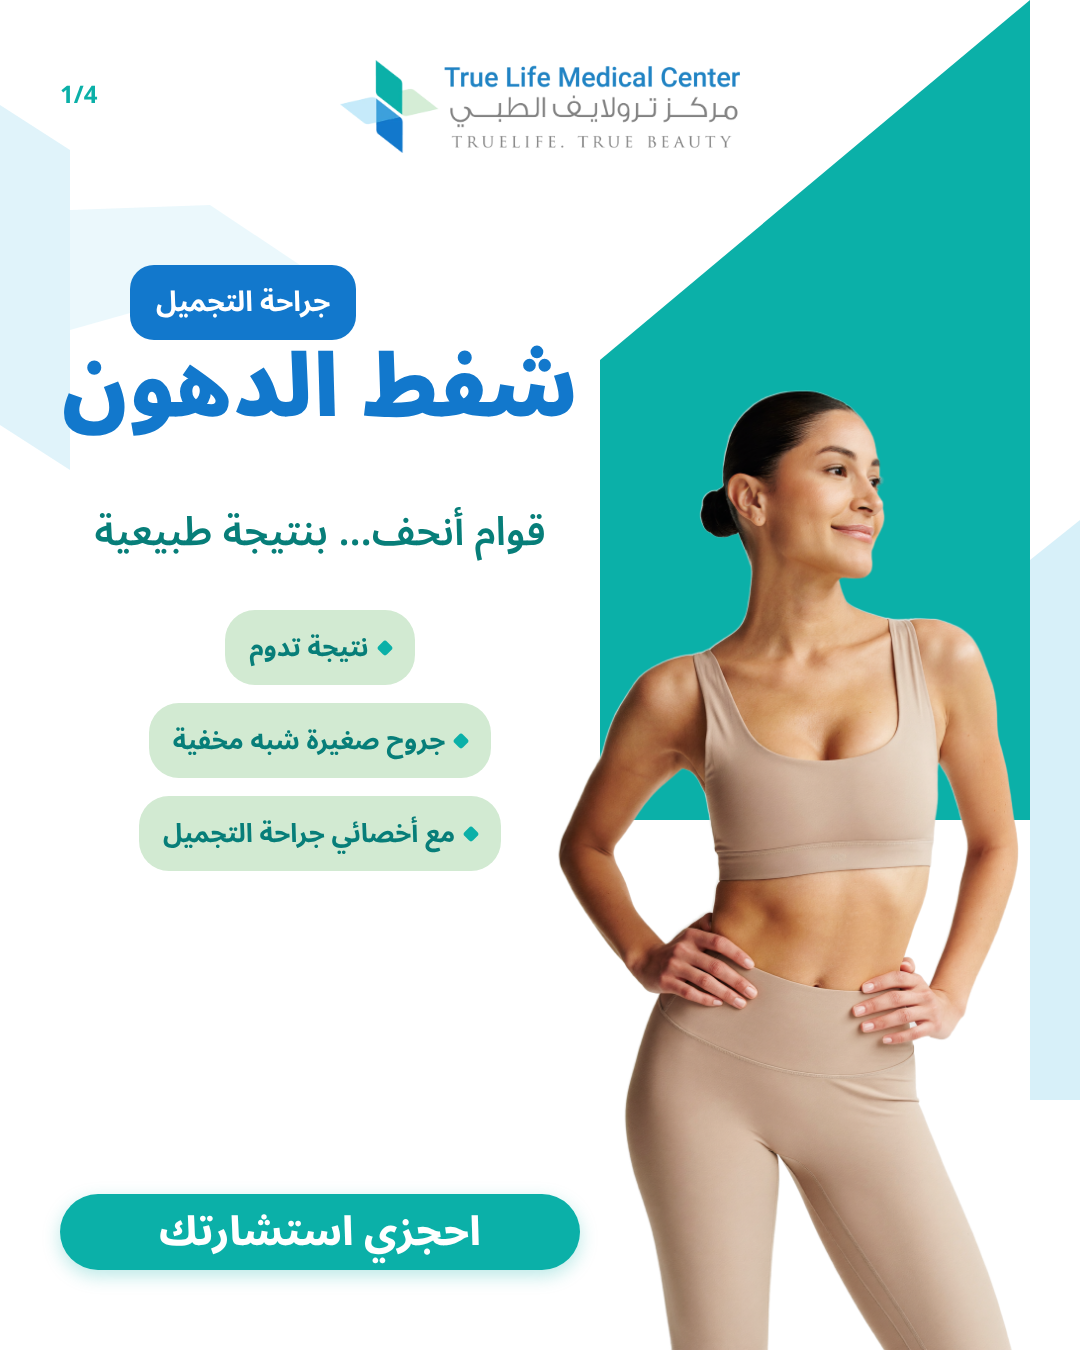
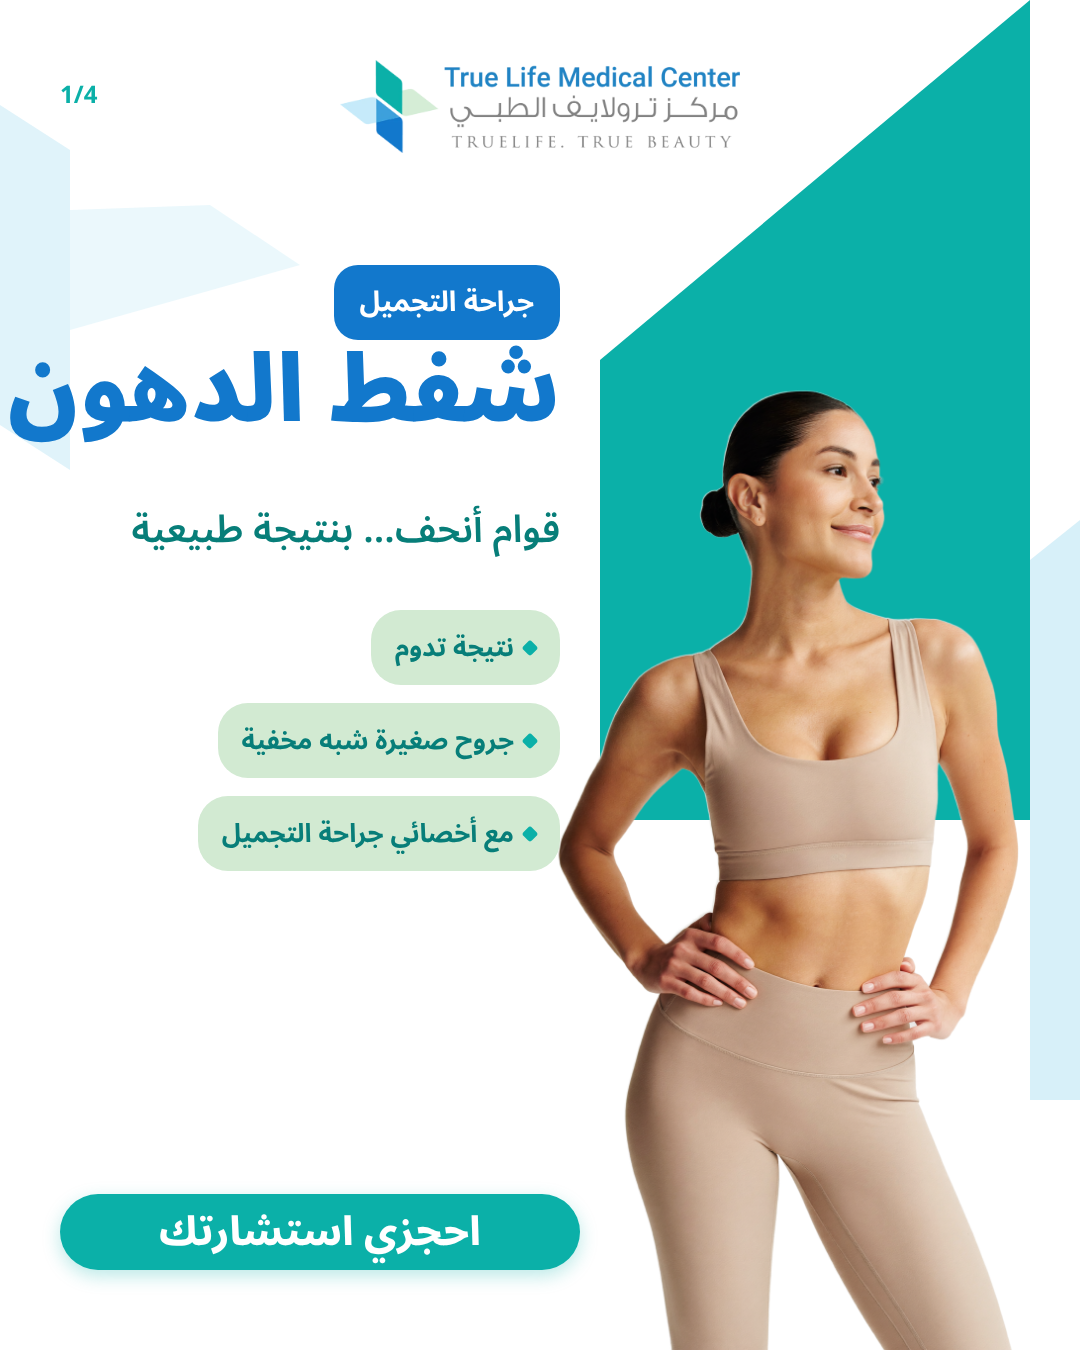
Liposuction carousel: right-aligned cover, real doctor photo; add font options sheet
Claude-Session: https://claude.ai/code/session_01EZd6nkjhojbY1JhgPgko2h

Changed region(s): [[0.0917, 0.3733, 0.5194, 0.6533], [0.0, 0.1867, 0.55, 0.3422]]

diff --git a/designs/plastic/liposuction/carousel.html b/designs/plastic/liposuction/carousel.html
@@ -24,10 +24,10 @@
 
   /* slide 1 */
   .s1 .model{position:absolute;right:-110px;bottom:0;width:760px}
-  .s1 .tag{position:absolute;top:265px;left:50%;margin-left:-410px;background:var(--blue);color:#fff;font-weight:700;font-size:28px;padding:8px 26px;border-radius:24px}
-  .s1 .ttl{position:absolute;top:340px;left:40px;font-size:86px;width:560px;text-align:center;white-space:nowrap}
-  .s1 .sub{position:absolute;top:490px;left:40px;font-size:40px;width:560px;text-align:center}
-  .s1 .pills{position:absolute;top:610px;left:60px;display:flex;flex-direction:column;align-items:center;gap:18px;width:520px}
+  .s1 .tag{position:absolute;top:265px;right:520px;background:var(--blue);color:#fff;font-weight:700;font-size:28px;padding:8px 26px;border-radius:24px}
+  .s1 .ttl{position:absolute;top:340px;left:40px;font-size:92px;width:520px;text-align:right;white-space:nowrap}
+  .s1 .sub{position:absolute;top:490px;left:40px;font-size:38px;width:520px;text-align:right}
+  .s1 .pills{position:absolute;top:610px;left:60px;display:flex;flex-direction:column;align-items:flex-start;gap:18px;width:500px}
   .s1 .cta{position:absolute;left:60px;bottom:80px;width:520px}
   .s1 .cta .chip{font-size:40px;direction:rtl}
 
@@ -59,10 +59,13 @@
   .s4 .logo{width:440px;top:90px}
   .s4 .ttl{position:absolute;top:300px;width:100%;text-align:center;color:#fff;font-size:100px}
   .s4 .sub{position:absolute;top:440px;width:100%;text-align:center;color:var(--ice);font-size:36px;font-weight:500}
-  .doc{position:absolute;top:560px;left:120px;right:120px;background:#fff;border-radius:36px;padding:44px 40px;text-align:center}
+  .doc{position:absolute;top:540px;left:90px;right:90px;height:470px;background:#fff;border-radius:36px;overflow:hidden}
+  .doc img{position:absolute;left:-70px;bottom:-200px;width:640px}
+  .doc .txt{position:absolute;right:40px;top:0;bottom:0;width:440px;display:flex;flex-direction:column;justify-content:center;text-align:right}
+  .doc .badge{align-self:flex-start;background:var(--mint);color:var(--deepteal);font-weight:700;font-size:24px;border-radius:20px;padding:6px 18px;margin-bottom:16px}
   .doc .avatar{width:170px;height:170px;border-radius:50%;margin:0 auto 22px;background:var(--ice);display:flex;align-items:center;justify-content:center;border:6px solid var(--mint)}
   .doc .avatar svg{width:90px;height:90px}
-  .doc h3{font-size:46px;font-weight:900;color:var(--blue)}
+  .doc h3{font-size:44px;line-height:1.3;font-weight:900;color:var(--blue)}
   .doc h4{font-size:30px;font-weight:600;color:var(--deepteal);margin-top:6px}
   .s4 .ctas{position:absolute;left:120px;right:120px;bottom:90px;display:flex;flex-direction:column;gap:18px}
   .s4 .chip.loc{background:transparent;border-color:rgba(198,234,246,.5);color:#fff}
@@ -150,9 +153,11 @@
   <div class="ttl">احجزي استشارتك</div>
   <div class="sub">خطة واضحة تناسب جسمك… قبل أي قرار</div>
   <div class="doc">
-    <div class="avatar"><svg viewBox="0 0 24 24" fill="none" stroke="#1278CC" stroke-width="1.5" stroke-linecap="round"><circle cx="12" cy="8" r="4"/><path d="M4 21c0-4.4 3.6-7 8-7s8 2.6 8 7"/></svg></div>
-    <h3>د. السيد حسني عبد الباقي</h3>
-    <h4>أخصائي جراحة التجميل</h4>
+    <img src="../dr_elsayed.png" alt="">
+    <div class="txt"><span class="badge">جرّاحك</span>
+    <h3>د. السيد حسني<br>عبد الباقي</h3>
+    <h4>أخصائي جراحة التجميل والترميم</h4>
+    <h4 style="font-size:24px;color:#5b6570;font-weight:500;margin-top:14px">أكثر من 10 سنوات خبرة</h4></div>
   </div>
   <div class="ctas">
     <div class="chip wa"><svg viewBox="0 0 32 32"><path fill="#fff" d="M16 3C8.8 3 3 8.7 3 15.8c0 2.5.7 4.9 2 6.9L3 29l6.5-2c1.9 1 4.1 1.6 6.5 1.6 7.2 0 13-5.7 13-12.8S23.2 3 16 3zm0 23.3c-2.1 0-4.1-.6-5.8-1.7l-.4-.2-3.9 1.2 1.2-3.7-.3-.4a10.4 10.4 0 0 1-1.7-5.7C5.1 10 10 5.3 16 5.3S26.9 10 26.9 15.8 22 26.3 16 26.3zm6-7.8c-.3-.2-1.9-.9-2.2-1-.3-.1-.5-.2-.7.2l-1 1.2c-.2.2-.4.2-.7.1a8.8 8.8 0 0 1-4.4-3.8c-.3-.6.3-.5.9-1.7.1-.2 0-.4 0-.6l-1-2.4c-.3-.6-.5-.5-.7-.5h-.6c-.2 0-.6.1-.9.4-.3.3-1.2 1.1-1.2 2.7s1.2 3.2 1.4 3.4c.2.2 2.4 3.6 5.8 5 2.2.9 3 1 4.1.8.7-.1 1.9-.8 2.2-1.5.3-.7.3-1.4.2-1.5-.1-.2-.3-.3-.6-.4z"/></svg>+971 7 204 4666</div>
